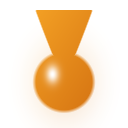
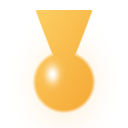
Cue skins pilot round 2: auras round the whole cue (halo and energy Beams, full-length emitters, stronger emissive)

Changed region(s): [[0.25, 0.0625, 0.75, 0.875]]

diff --git a/assets/cue/CueVfx.py b/assets/cue/CueVfx.py
@@ -445,6 +445,7 @@ class Beam:
         self.mode = spec.get('TextureMode', 'Wrap')
         self.zoffset = float(spec.get('ZOffset', 0))
         self.face = bool(spec.get('FaceCamera', True))
+        self.pulse = spec.get('Pulse')  # a script tweening Transparency: alpha x wave(t)
         tex = spec.get('Texture', 'vfx/_shared/glow_soft.png')
         self.texture = tex if os.path.isabs(tex) else os.path.join(texture_root, tex)
 
@@ -473,6 +474,8 @@ class Beam:
             u = k * length / self.tex_len
         u = u - t * self.speed  # Roblox scrolls the texture along the beam
         col = self.color(k)
+        if self.pulse:
+            pulse = pulse * wave(t, self.pulse)
         alpha = (1 - np.clip(self.transp(k), 0, 1)) * pulse
         corners = np.stack([L[:-1], Rr[:-1], Rr[1:], L[1:]], 1)
         uv = np.stack([np.stack([u[:-1], np.zeros(n)], -1), np.stack([u[:-1], np.ones(n)], -1),
@@ -700,7 +703,42 @@ def save_rgba(path, arr):
     print('CUE vfx wrote', os.path.relpath(path, HERE))
 
 
+def sprite_halo_strip(w=64, h=256):
+    """A beam texture for a halo round the whole cue: v runs across the beam; bright in the middle
+    (hidden inside the cue) falling off softly to both edges, so a camera-facing beam wider than
+    the cue shows as a glow round its outline."""
+    v = (np.arange(h) + 0.5) / h * 2 - 1
+    a = np.exp(-(v / 0.42) ** 2) * 0.85 + np.clip(1 - np.abs(v), 0, 1) ** 2 * 0.15
+    a = np.repeat(a[:, None], w, 1)
+    return _rgba(np.clip(a, 0, 1))
+
+
+def sprite_wisp_strip(w=1024, h=256, seed=13, lanes=9):
+    """A scrolling energy beam texture: long flowing strands along u that swell, thin and break,
+    tiling seamlessly along u (for TextureSpeed), soft across v."""
+    rs = np.random.RandomState(seed)
+    u = (np.arange(w) + 0.5) / w
+    v = (np.arange(h) + 0.5) / h * 2 - 1
+
+    def per(freq, sd, z=0.0):  # fbm periodic in u
+        R = freq / (2 * math.pi)
+        return cc.fbm(np.cos(2 * math.pi * u) * R, np.sin(2 * math.pi * u) * R, np.full_like(u, z), 3, sd)
+    a = np.zeros((h, w))
+    for k in range(lanes):
+        vk = rs.uniform(-0.6, 0.6)
+        off = 0.35 * (per(3, seed + 3 * k) - 0.5)
+        thick = 0.025 + 0.06 * per(5, seed + 3 * k + 1, 2.0)
+        inten = np.clip((per(4, seed + 3 * k + 2, 4.0) - 0.38) * 3.0, 0, 1)
+        a += np.exp(-((v[:, None] - vk - off[None]) / thick[None]) ** 2) * inten[None] * rs.uniform(0.6, 1.0)
+    across = np.clip(1 - np.abs(v), 0, 1)[:, None] ** 0.7
+    a = np.clip(a * across, 0, 1)
+    core = np.clip(a - 0.6, 0, 1) * 1.5
+    return _rgba(a, core=core)
+
+
 SHARED_SPRITES = {
+    'halo_strip.png': sprite_halo_strip,
+    'wisp_strip.png': sprite_wisp_strip,
     'glow_soft.png': sprite_glow_soft,
     'glow_core.png': sprite_glow_core,
     'star4.png': sprite_star4,
@@ -716,7 +754,7 @@ SHARED_SPRITES = {
 SKIN_SPRITES = {}
 
 
-def sprite_drop(n=128, body=(250, 170, 40), deep=(200, 96, 10)):
+def sprite_drop(n=128, body=(255, 215, 110), deep=(240, 150, 30)):
     """A glossy falling drop (honey, goo, lava): a round bulb below with a short tail above and a
     white highlight; upright (use FacingCameraWorldUp)."""
     x, y = _grid(n)

diff --git a/assets/cue/CuePreview.py b/assets/cue/CuePreview.py
@@ -42,7 +42,7 @@ PREVIEW = {
     'background': (0.0085, 0.0095, 0.0125),  # linear: about #16181D, the concept sheets' charcoal
     'floor': (0.006, 0.0065, 0.008),
     'env_strength': 0.55,
-    'bloom': (0.85, 0.45, 0.55),  # threshold, strength, size (Blender Glare: Bloom)
+    'bloom': (0.8, 0.6, 0.6),  # threshold, strength, size (Blender Glare: Bloom)
     'back': {'tilt_deg': 36.0, 'out': 0.3, 'grip_from_tip': 4.3},  # Config.Cue.Back
     'segments': {'turn': 3.2, 'back': 2.2, 'shot': 2.4, 'pocket': 2.0},  # seconds
     'common_turn': 4.0,
@@ -415,7 +415,8 @@ def blender_main(args):
             ems.append(vfx.Emitter(spec, seed=seed + 31 * i, rate_scale=rate_scale))
         return ems
 
-    beams = [vfx.Beam(b) for b in (moving.get('Beams') or [])]
+    aura_spec = V.get('Aura') or {}
+    beams = [vfx.Beam(b) for b in (aura_spec.get('Beams') or []) + (moving.get('Beams') or [])]
 
     def emitter_key(prefix, i, em):
         return '%s%d' % (prefix, i)
@@ -527,7 +528,7 @@ def blender_main(args):
             still(name, dict(loc=(x, -6 * math.cos(e), 6 * math.sin(e)), target=(x, 0, 0), ortho=width), horiz)
         diag = ((-2.6, 0, -1.5), (math.radians(-26), 0, math.pi / 2))
         still('threeq', dict(loc=(-0.2, -2.9, 1.3), target=(2.2, 0, 0.15), lens=40), horiz)
-        still('aura', dict(loc=(1.9, -5.2, 0.9), target=(1.9, 0, 0.3), lens=38), diag, aura_t=PREVIEW['prewarm'])
+        still('aura', dict(loc=(0.55, -8.6, 0.9), target=(0.55, 0, 0.05), lens=38), diag, aura_t=PREVIEW['prewarm'])
         print('CUE preview stills done', skin_id)
 
     # ---- clip -----------------------------------------------------------------------------------

diff --git a/assets/cue/CuePaint.py b/assets/cue/CuePaint.py
@@ -637,6 +637,8 @@ def honeycomb(k):
         vein = (1 - smooth(0.0, 0.05, vein)) * smooth(0.9, 3.0, c.d) * m
         vcol = np.broadcast_to(np.array([255.0, 190, 60]), c.col.shape)
         c.put(vein * 0.95, vcol, glow=vein)
+        # a faint warm glow through the whole amber shaft, so the tip end glows too
+        c.put(m, None, glow=np.maximum(c.glow, 0.12 * m))
     # the honeycomb (forearm and sleeve): dark glossy cells, glowing gold walls
     for c, m in k.zone('forearm', 'cap'):
         edge, cid, dx, dy = hex_cells(c, 7)

diff --git a/docs/prompts/CUE_SKINS_REVIEW.md b/docs/prompts/CUE_SKINS_REVIEW.md
@@ -15,5 +15,5 @@ the concept crops, **mix** = both. Particle rates are per cue (in hand); the bac
 | Id | Name | Tier | Files | Built (painter, VFX pieces, particles/s) | Differs from the concept | Designer |
 |---|---|---|---|---|---|---|
 | midnight | Midnight | Common | skins/midnight/sheet.png, clip.mp4 | proc: gloss black with metal flake, a brushed silver-grey stripe tapering to a point along the top of the forearm with chrome pinstripe edges, chrome collar, ring and butt-cap band, pebbled black leather wrap. VFX: none (the white wisp). | The stripe is on the top of the cue (what you see in the hand and on the back), not the side the concept shows; it is silver-grey (as the concept) rather than the plan's matte #6B6E73. The sleeve is the mesh's (shorter than the concept's). | |
-| honeycomb | Honeycomb | Rare | skins/honeycomb/sheet.png, clip.mp4 | proc: 7-round hexagon comb (glowing gold walls, glossy amber-brown cells) on the forearm and sleeve, honey pooling on top and running down, chocolate grip with 3 amber spiral stripes, gold rings, deep amber curly-maple shaft with glowing veins; emissive pulses 0.75-1.1 over 3 s. Aura: flipbook cartoon bees (OpenAI sprite), falling honey drops, warm glow, gold glints: 11.1/s (back 5.6). Trail: wisp tinted amber. | Bees drift in slow arcs (particles fly straight), not loops. The honey drips are a painted surface, the falling drops are particles. | |
-| void | Void | Epic | skins/void/sheet.png, clip.mp4 | mix: AI forearm (violet black-hole swirl) and butt (black snakeskin grip with violet cracks, black-hole sleeve), procedural gloss-black star-dust shaft, silver collar, silver ring with two violet lines, violet event-horizon ring on the end face. Moving: spinning swirl and accretion-ring sprites over the painted ones (ZOffset 0.25). Aura: violet motes pulled in (Inward cylinder), dark-matter smoke drawn in, violet haze, black rock shards pulled in: 34.4/s (back 17.2). Trail: smoky textured ribbon lilac to near black with a lilac core, plus smoke puffs from the ball (22/s while rolling). Pocket: default gust. | The concept's violet rim glow along the silhouette is not possible on a SurfaceAppearance; the violet haze particles stand in for it. The grip's scales are finer than the concept's. | |
+| honeycomb | Honeycomb | Rare | skins/honeycomb/sheet.png, clip.mp4 | proc: 7-round hexagon comb (glowing gold walls, glossy amber-brown cells) on the forearm and sleeve, honey pooling on top and running down, chocolate grip with 3 amber spiral stripes, gold rings, deep amber curly-maple shaft with glowing veins. Aura (redone after the pilot): an amber halo Beam round the whole cue, tip to butt, breathing; flipbook cartoon bees (OpenAI sprite) all along it; falling honey drops; warm glow puffs and gold glints the whole length: 18/s (back 9) plus 1 Beam. Emissive 1.2-1.9, pulsing. Trail: wisp tinted amber. | Bees drift in slow arcs (particles fly straight), not loops. The honey drips are a painted surface, the falling drops are particles. | |
+| void | Void | Epic | skins/void/sheet.png, clip.mp4 | mix: AI forearm (violet black-hole swirl) and butt (black snakeskin grip with violet cracks, black-hole sleeve), procedural gloss-black star-dust shaft, silver collar, silver ring with two violet lines, violet event-horizon ring on the end face. Moving: spinning swirl and accretion-ring sprites over the painted ones (ZOffset 0.25). Aura (redone after the pilot): a violet halo Beam round the whole cue and a second Beam of violet energy strands streaming toward the black hole at the butt; violet motes, dark-matter smoke and black rock shards pulled in all along the cue (Inward cylinders); violet haze: 31.4/s (back 15.7) plus 2 Beams. Emissive 1.3-2.1, pulsing. Trail: smoky textured ribbon lilac to near black with a lilac core, plus smoke puffs from the ball (22/s while rolling). Pocket: default gust. | The concept's violet rim glow is the halo Beam. The grip's scales are finer than the concept's. | |

diff --git a/docs/DECISIONS.md b/docs/DECISIONS.md
@@ -1931,3 +1931,5 @@ caps switch), leaving the plain tiled cloth; no new images needed.
   - (assumption) The concept sheets draw a longer butt sleeve than the mesh has; designs are mapped onto the mesh's own zones, since the cue's shape never changes.
   - (assumption) Previews: EEVEE, the Standard view on the concepts' charcoal, a CC0 studio HDRI (Poly Haven) for reflections only, and a modest bloom (threshold 0.85) standing in for Roblox's Lighting.Bloom. AgX and PBR Neutral were tried and washed the glows out.
   - (assumption) Git: the OpenAI takes (`skins/<id>/ai/`), skin files, sprites, crops, scripts, tier sheets and logs are committed; the procedural panels and all maps are rebuilt (`python3 tools/cue_skin.py <id> --paint --maps`) and ignored, which keeps the repo well under the 300 MB line.
+- 2026-09-29: **Auras run the whole cue, tip to butt, from Rare up** (designer, after the pilot: "not enough aura or effects, it needs to be more prominent and around the entire cue"). Every Rare and up gets a glowing halo round its whole outline (a camera-facing Beam from tip to butt, wider than the cue, pulsing gently; it costs no particles), emitters that span the whole length instead of the handle, and stronger emissive. Epic and up add a second Beam of energy streaming along the cue (TextureSpeed). The particle budgets per second (Rare 20, Epic 35, Legendary+ 60) stay; Beams are extra.
+

diff --git a/docs/prompts/CUE_SKINS_PROMPT.md b/docs/prompts/CUE_SKINS_PROMPT.md
@@ -391,7 +391,7 @@ and you ask the designer about it.
 
 ## Notes
 
-WAITING FOR DESIGNER: the pilot check (Midnight, Honeycomb, Void sheets and clips): OK, or changes?
+WAITING FOR DESIGNER: the pilot check, round 2 (Honeycomb and Void redone with auras round the whole cue): OK, or changes?
 
 - **2026-09-29, setup.** Worktree `~/Desktop/8ball-skins`, branch `cue-skins`, pushed. Blender
   5.2.2 LTS runs headless (EEVEE ~0.4 s a 720p frame; its built-in FFMPEG writes the clips, the
@@ -426,4 +426,8 @@ WAITING FOR DESIGNER: the pilot check (Midnight, Honeycomb, Void sheets and clip
 - **Pilot built:** Midnight (procedural), Honeycomb (procedural + an OpenAI bee flipbook), Void
   (OpenAI forearm and butt + procedural shaft; spinning-swirl moving material). Spend so far
   about $0.14.
+- **Pilot round 1 feedback (designer):** not enough aura on the Rare and the Epic; make it more
+  prominent and round the entire cue, tip to butt, for every Rare and up, using emissive glow too.
+  Done: a halo Beam round the whole outline (Rare+), a streaming energy Beam (Epic+), emitters
+  spanning the whole cue, stronger pulsing emissive. Logged in DECISIONS.
 
